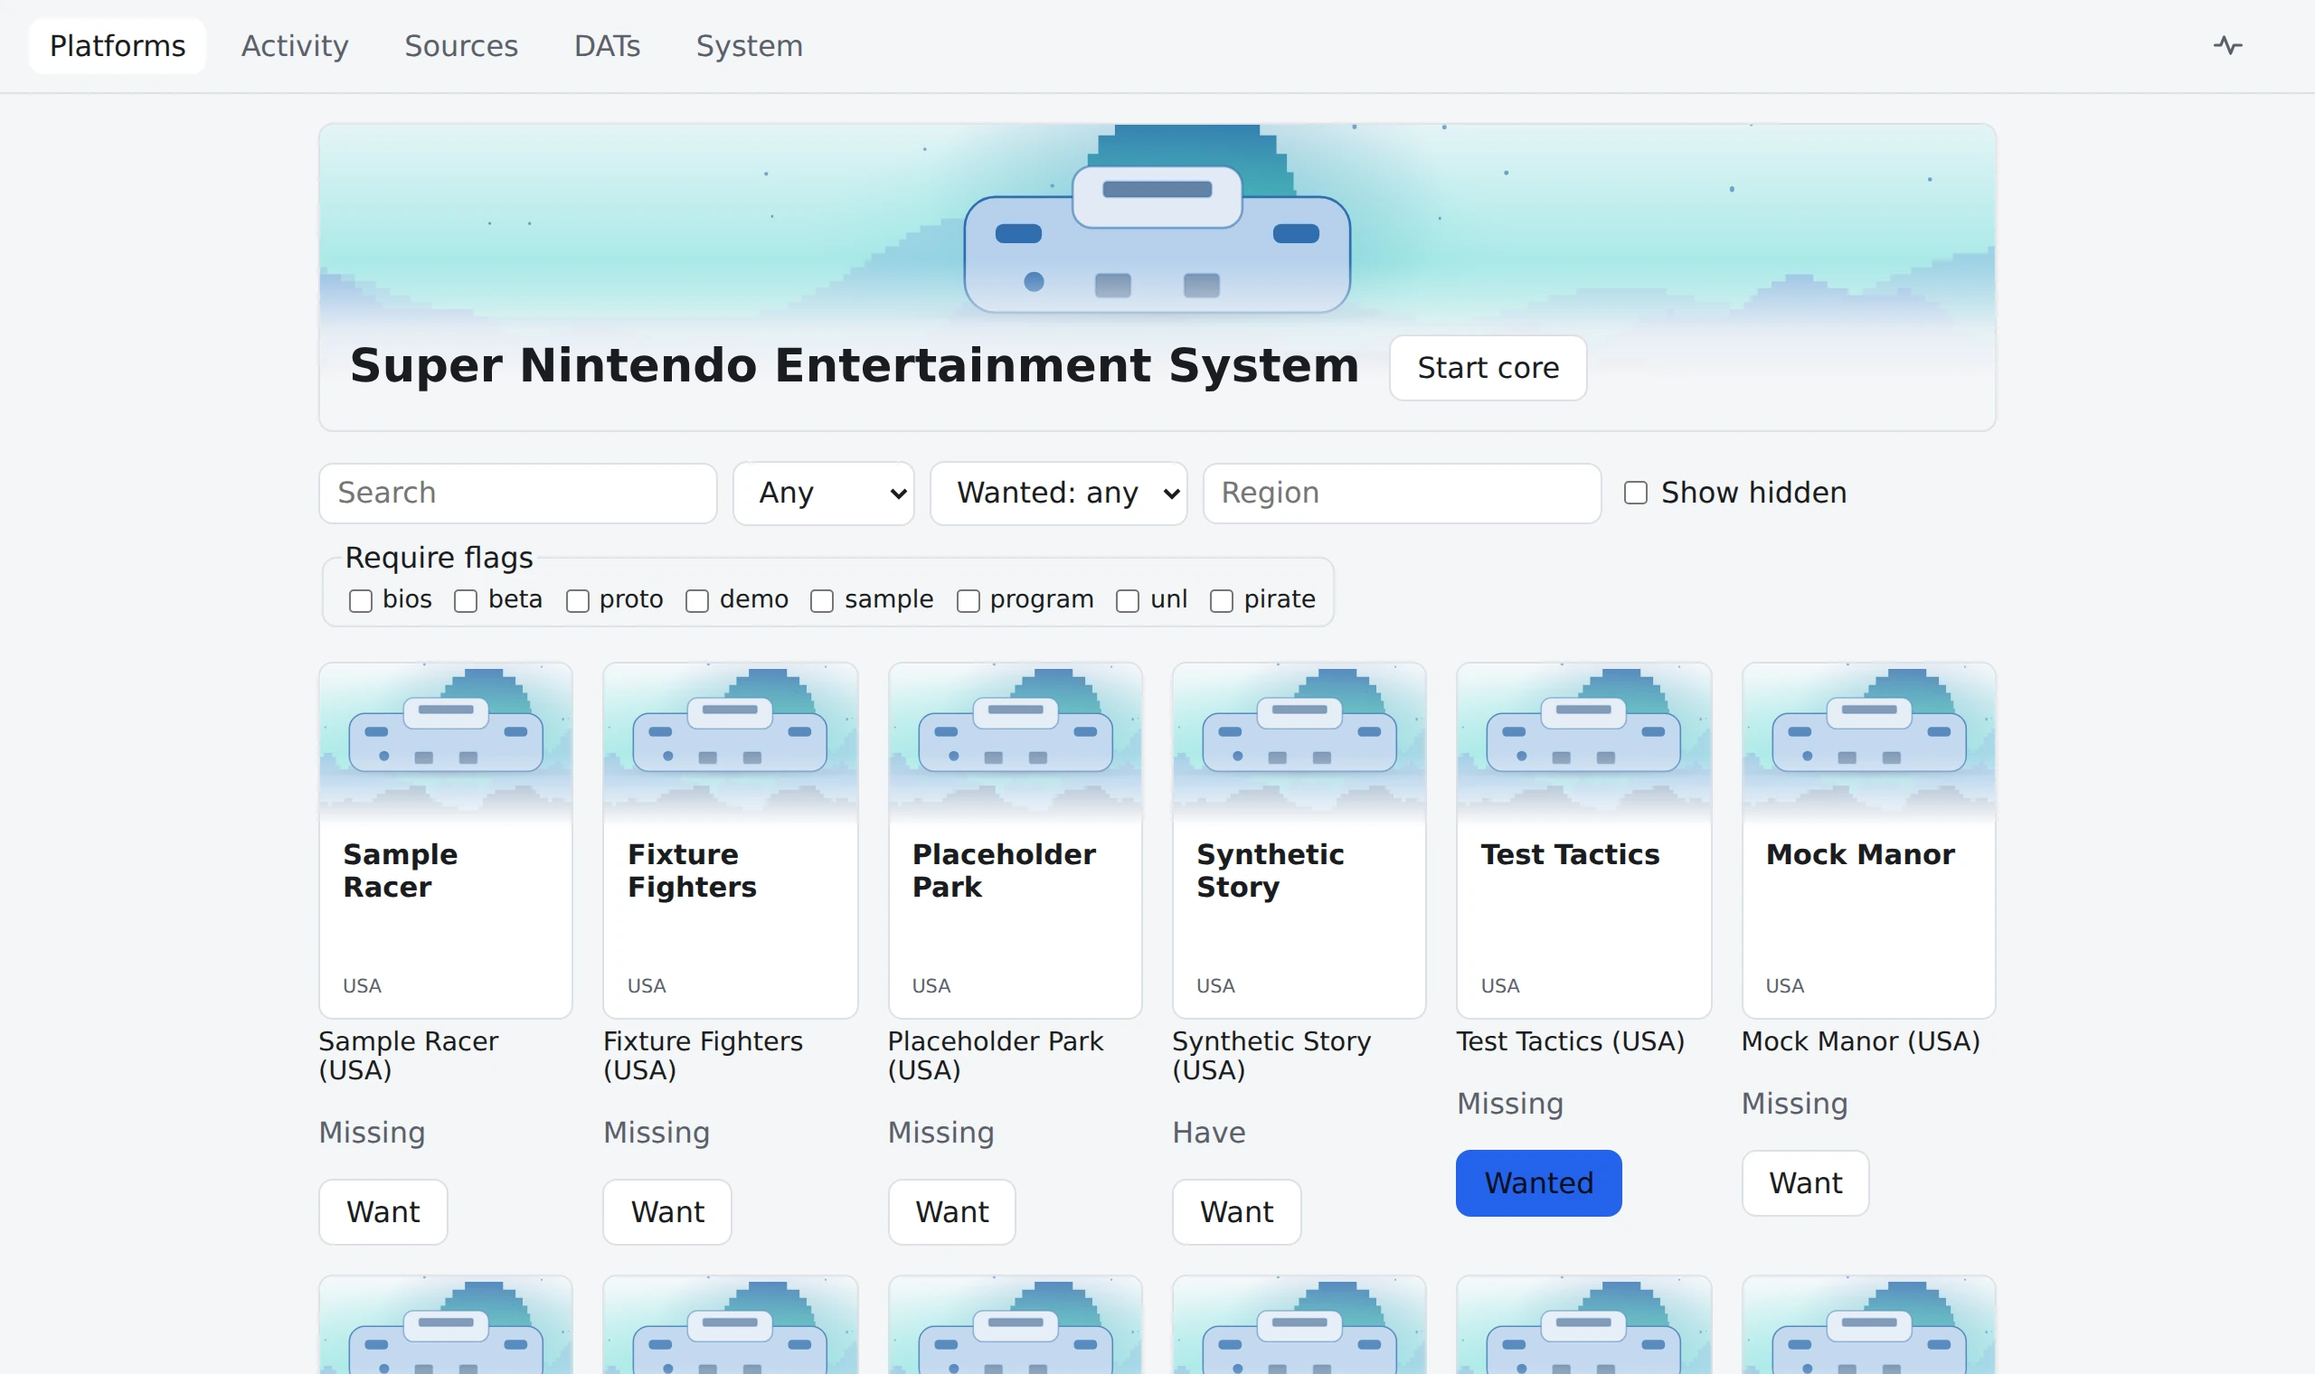
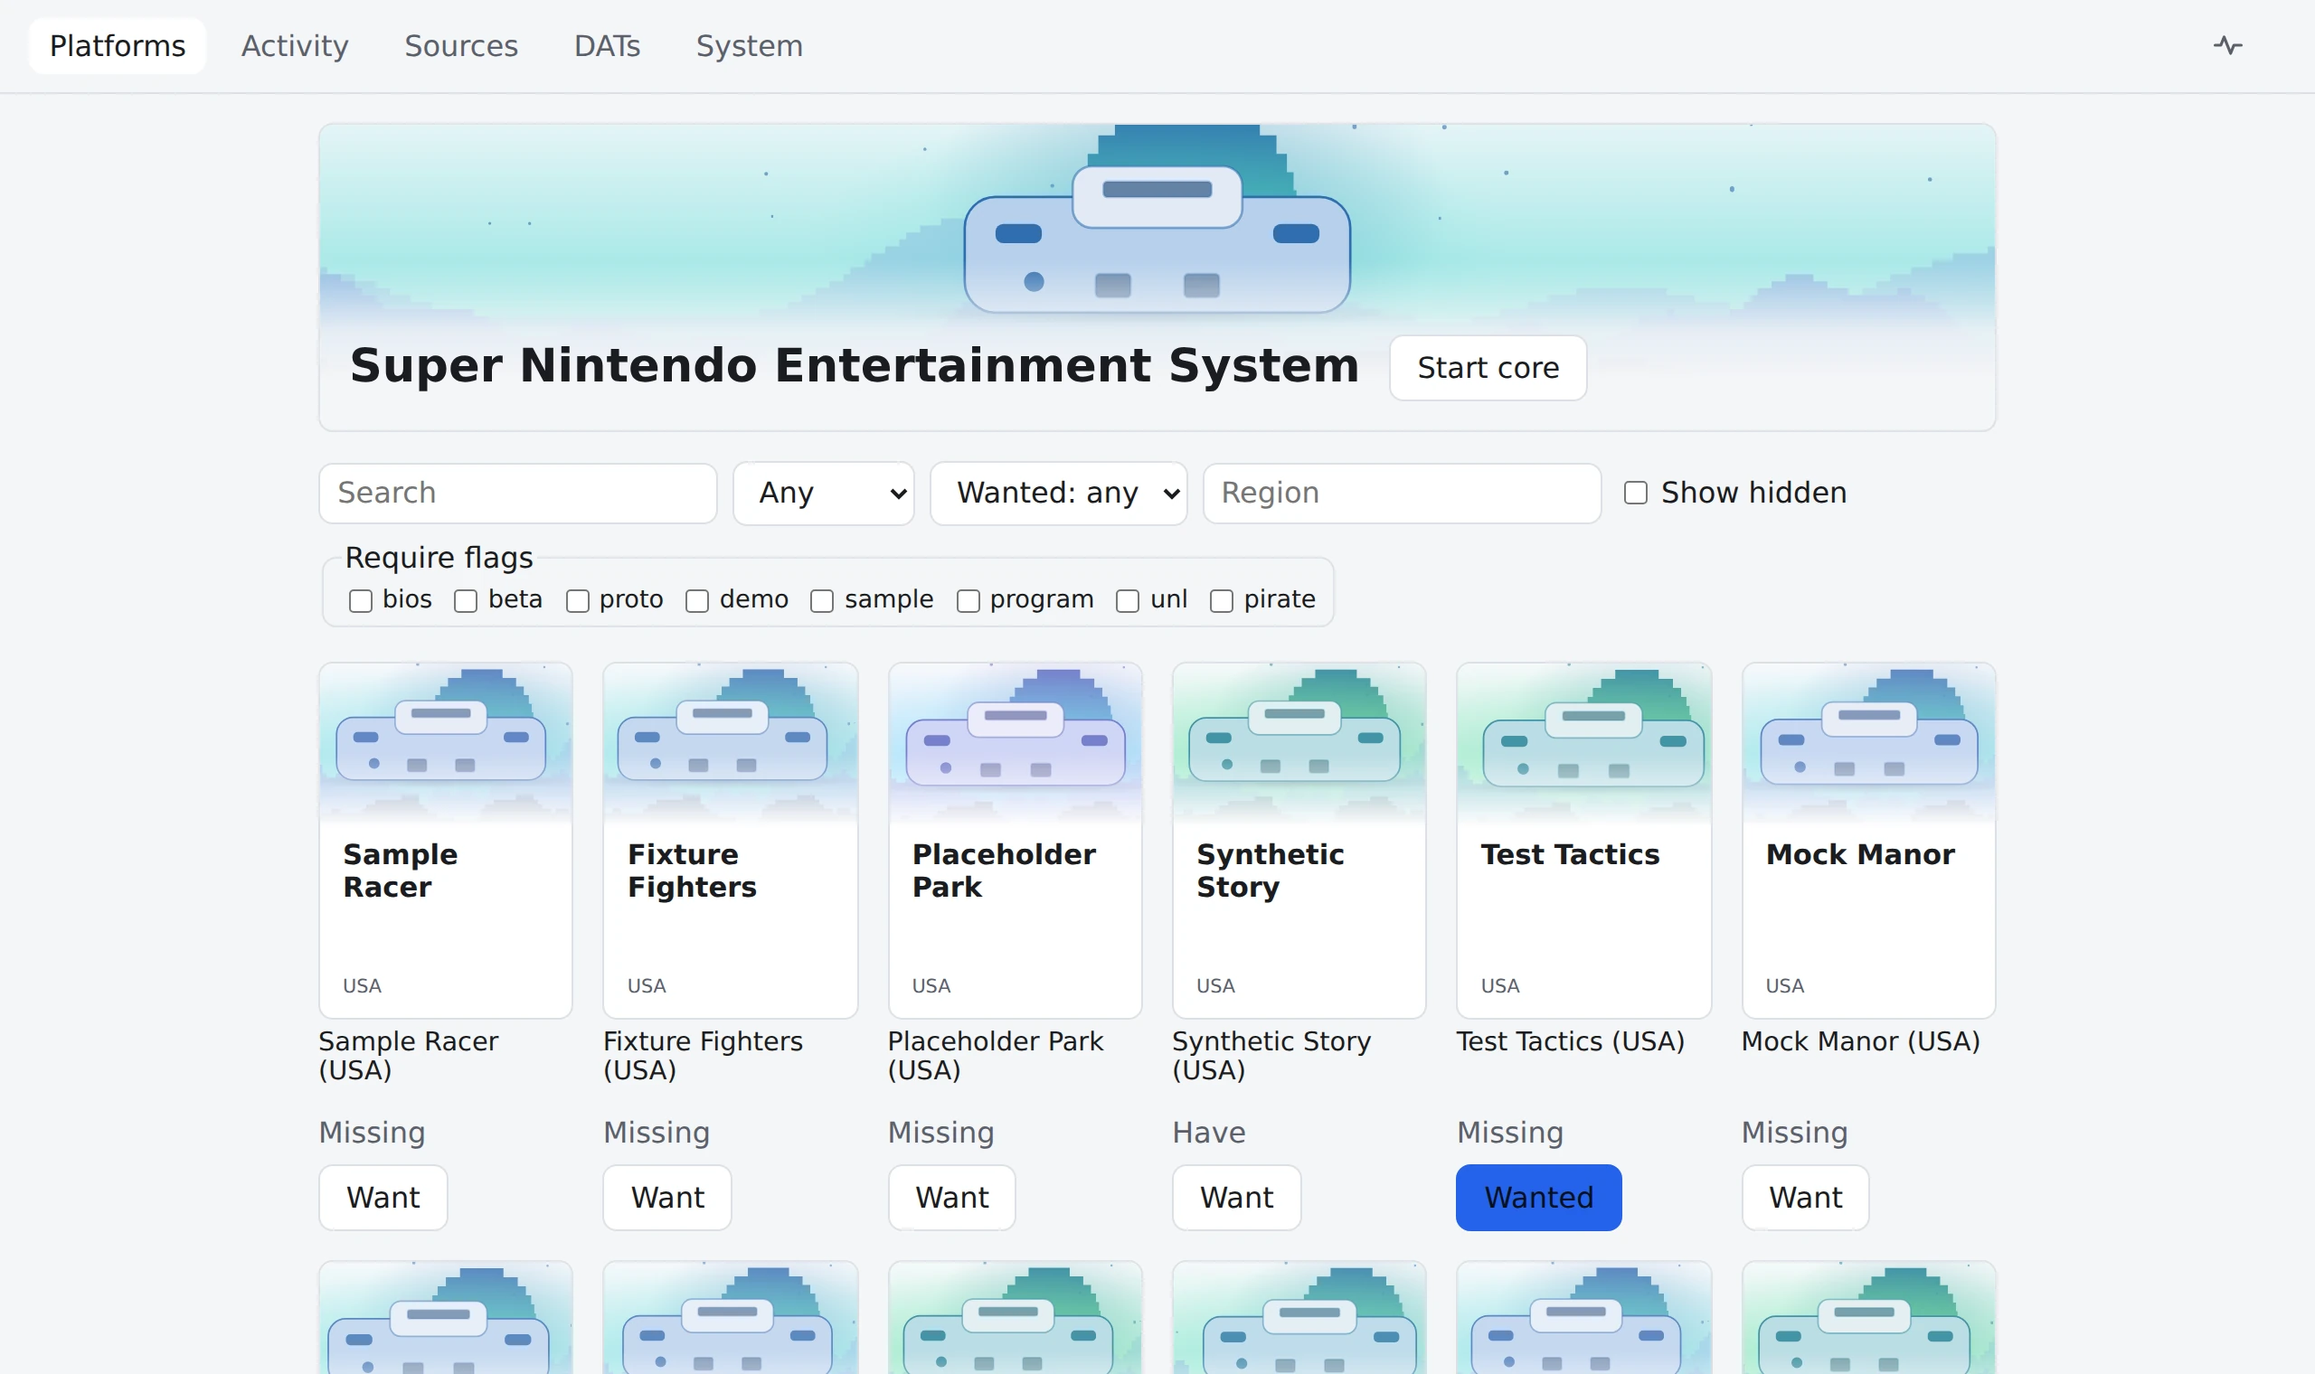
Align Browse cards and vary generated posters
Each Browse card is now a flex column with its status line and Want
button at the foot, so they line up across a row whatever the name's
length; an e2e test checks the first row. Every generated poster on a
platform looked the same: posterVariation hashes the title's name into
a hue rotation of up to 30 degrees, a small horizontal shift and a zoom
that always covers the shift, applied in CSS to the art band, so
neighbours differ and a title always looks the same. Unit tests pin
its determinism and bounds. The Browse and Title images are retaken.

diff --git a/web/e2e/poster.spec.ts b/web/e2e/poster.spec.ts
@@ -1,0 +1,37 @@
+import { expect, test } from '@playwright/test';
+import { posterVariation } from '../src/lib/poster';
+
+const names = [
+  'Example Quest', 'Sample Racer', 'Fixture Fighters', 'Placeholder Park', 'Synthetic Story',
+  'Test Tactics', 'Mock Manor', 'Demo Dungeon', 'Trial Trail', 'Stub Squad'
+];
+
+test('a name always gets the same poster variation', () => {
+  for (const name of names) {
+    expect(posterVariation(name)).toEqual(posterVariation(name));
+  }
+  expect(posterVariation('Example Quest (USA)')).not.toEqual(posterVariation('Example Quest (Europe)'));
+});
+
+test('every variation stays within its bounds', () => {
+  for (let i = 0; i < 2000; i += 1) {
+    const { hue, shift, scale } = posterVariation(`Title ${i}`);
+    expect(Number.isInteger(hue) && hue >= -30 && hue <= 30).toBe(true);
+    expect(Number.isInteger(shift) && shift >= -4 && shift <= 4).toBe(true);
+    expect(scale).toBeGreaterThanOrEqual(1.08);
+    expect(scale).toBeLessThanOrEqual(1.14 + 1e-9);
+    expect(scale, 'the zoom covers the shift on both sides').toBeGreaterThanOrEqual(1 + (2 * Math.abs(shift)) / 100);
+  }
+});
+
+test('titles on one platform get visibly different hues', () => {
+  const hues = new Set(names.map((name) => posterVariation(`${name} (USA)`).hue));
+  expect(hues.size).toBeGreaterThanOrEqual(7);
+  const spread = Math.max(...hues) - Math.min(...hues);
+  expect(spread).toBeGreaterThanOrEqual(30);
+});
+
+test('the empty name has a variation too', () => {
+  const { hue, shift, scale } = posterVariation('');
+  expect([hue, shift, scale].every(Number.isFinite)).toBe(true);
+});

diff --git a/web/src/lib/PosterPlaceholder.svelte b/web/src/lib/PosterPlaceholder.svelte
@@ -1,5 +1,6 @@
 <script lang="ts">
   import PlatformArt from './PlatformArt.svelte';
+  import { posterVariation } from './poster';
   import type { PlatformKind } from './types';
 
   interface Props {
@@ -12,6 +13,7 @@
   }
 
   const { platformId, kind, title, name = null }: Props = $props();
+  const look = $derived(posterVariation(name ?? title));
   const tags = $derived(
     [...(name ?? '').matchAll(/\(([^()]+)\)/g)]
       .map((m) => m[1] ?? '')
@@ -22,7 +24,15 @@
 
 <!-- The name is already on the page as text, so the poster is decoration. -->
 <div class="poster-placeholder" aria-hidden="true" data-testid="poster-placeholder">
-  <div class="band"><PlatformArt id={platformId} {kind} /></div>
+  <div class="band">
+    <div
+      class="shift"
+      style:filter="hue-rotate({look.hue}deg)"
+      style:transform="translateX({look.shift}%) scale({look.scale})"
+    >
+      <PlatformArt id={platformId} {kind} />
+    </div>
+  </div>
   <p class="title">{title}</p>
   {#if tags}
     <p class="tags">{tags}</p>
@@ -46,7 +56,14 @@
   .band {
     position: relative;
     flex: 0 0 46%;
+    overflow: hidden;
     opacity: 0.8;
+  }
+
+  .shift {
+    position: absolute;
+    inset: 0;
+    transform-origin: 50% 0;
   }
 
   .band::after {

diff --git a/web/e2e/screens.spec.ts b/web/e2e/screens.spec.ts
@@ -79,6 +79,22 @@ test('Play and Want are hidden for a BIOS entry even when its file is present', 
   await expect(page.getByRole('row', { name: /\(Europe\)/ }).getByRole('button', { name: 'Want' })).toHaveCount(1);
 });
 
+test('the status and Want button line up across a row of posters', async ({ page }) => {
+  await page.setViewportSize({ width: 1280, height: 900 });
+  await page.goto('/#/p/nes');
+  const cards = page.locator('.grid a.poster');
+  await expect(cards.nth(5)).toBeVisible();
+  const tops = await cards.evaluateAll((els) =>
+    els.slice(0, 6).map((el) => {
+      const card = el.getBoundingClientRect().top;
+      const button = el.querySelector('button')?.getBoundingClientRect().top ?? 0;
+      return { card: Math.round(card), button: Math.round(button) };
+    })
+  );
+  expect(new Set(tops.map((t) => t.card)).size, 'the first six cards share a row').toBe(1);
+  expect(new Set(tops.map((t) => t.button)).size).toBe(1);
+});
+
 test('a title without a cover gets a generated poster with its name, hidden from screen readers', async ({ page }) => {
   await page.route(/^https?:\/\/(?!localhost)/, (route) => route.abort());
   await page.goto('/#/p/nes');

diff --git a/web/src/lib/poster.ts b/web/src/lib/poster.ts
@@ -1,0 +1,31 @@
+// Per-title variation of the generated poster; see docs/UI.md "Browse".
+
+/** How one generated poster's art band differs from its platform's art. */
+export interface PosterVariation {
+  /** Hue rotation in degrees, from -30 to 30. */
+  hue: number;
+  /** Horizontal shift of the art in percent of the band, from -4 to 4. */
+  shift: number;
+  /** Zoom of the art, from 1.08 to 1.14: enough that the shift never bares an edge. */
+  scale: number;
+}
+
+/** FNV-1a over the UTF-16 code units of `text`. */
+function fnv1a(text: string): number {
+  let h = 0x811c9dc5;
+  for (let i = 0; i < text.length; i += 1) {
+    h ^= text.charCodeAt(i);
+    h = Math.imul(h, 0x01000193);
+  }
+  return h >>> 0;
+}
+
+/** The variation for a title name; the same name always gets the same one. */
+export function posterVariation(name: string): PosterVariation {
+  const h = fnv1a(name);
+  return {
+    hue: (h % 61) - 30,
+    shift: ((h >>> 8) % 9) - 4,
+    scale: 1.08 + ((h >>> 16) % 7) / 100
+  };
+}

diff --git a/web/src/routes/Browse.svelte b/web/src/routes/Browse.svelte
@@ -256,7 +256,7 @@
           />
         {/if}
         <p class="name">{group.pick_name ?? group.name}</p>
-        <p class="muted">{group.have_verified > 0 ? 'Have' : 'Missing'}</p>
+        <p class="muted status">{group.have_verified > 0 ? 'Have' : 'Missing'}</p>
         <button
           class:primary={group.wanted > 0}
           disabled={group.pick_id === null}
@@ -421,9 +421,19 @@
   }
 
   .poster {
-    display: block;
+    display: flex;
+    flex-direction: column;
     text-decoration: none;
     color: var(--fg);
+  }
+
+  .poster .status {
+    margin-top: auto;
+    padding-top: 1em;
+  }
+
+  .poster button {
+    align-self: flex-start;
   }
 
   .poster img {

diff --git a/docs/WORKPLAN.md b/docs/WORKPLAN.md
@@ -91,7 +91,7 @@ code. Guidance:
 | WP-41 | Identify CHD images by their tracks | Opus | 11, 26, 35 | A `.chd` on a disc platform is never hashed whole unless a loaded DAT lists a `.chd` rom of its size: the scan reads only its 124-byte header, proven by a reader that fails past byte 124 and by a header-only file that stays `unidentified` with reason `off`, and shows it on the Platforms card as not identified with a reason (`GET /platforms/{id}/unidentified`), not as unmatched; with `[scan] chd_tracks` on (System, labelled slow, default off, runtime-editable, a stored runtime without it never overriding the file), one heavy `chd_tracks` job decodes each image once with an in-tree pure-Rust v5 decoder over flate2, lzma-rs, claxon and ruzstd, rebuilds each track's Redump-style `.bin` (2352 of 2448 bytes, pad frames skipped, audio little-endian, stored pregaps included) into the existing hasher with nothing written to disk, verifies per-hunk CRC16 and the raw and combined header SHA1, caches per-track hashes on header SHA1 plus size, and writes `g.chd#NN` members plus `g.chd#cue`, verified only when every track of one DAT entry matches a distinct rom; cooked tracks, unstored pregaps, parents, GD-ROM, unsupported codecs, old track lists and damaged images are not identified with their reason and not decoded again until the file is rewritten; the job pauses between slices of about 640 KiB while a core runs and yields the heavy lane only to other job kinds; the launch hands over the `.chd`; synthetic discs encoded by chdman (default codecs, cdzs, cdfl, cdzl, small and 3-byte-length hunks; split and single-file cues; Mode 1, Mode 2 and audio tracks with INDEX 00 pregaps) decode to their source bins' hashes, required in CI; the in-repo synthetic writer covers every codec, real MAME-canonical Huffman maps, and agrees with chd-rs; KATs from docs/CHD.md pin the map, canonical codes and CHT2 layout; a proptest over track layouts, hunk sizes and codecs holds; mutated and truncated images fail without panicking; `decode_budget` stays under 24 MiB at the header limits and `tests/memory.rs` stays under budget; PLATFORMS.md, VERIFICATION.md, UI.md, DATA-MODEL.md, API.md, ARCHITECTURE.md, TESTING.md and the new CHD.md describe it. |
 | WP-42 | Fewer writes on the sync mount | Opus | 32, 35 | SQLite's temporary files go to `/tmp/mistarr`, falling back to `<data>/tmp`, and the DAT stage is a TEMP table, so neither reaches the `sync`-mounted card; the transaction that applies a DAT runs with the writer's cache at 8 MiB and the soft heap limit raised to match, both restored after it, on error too, within the memory budget `tests/memory.rs` checks; `roms_md5` holds only roms without a sha1, and `roms_match_base` and `roms_size` only keyed roms, through a numbered migration, with a plan test that every rom lookup seeks its index; `files::in_directory` is one range seek, with a plan test and a test that its rows are unchanged; a test holds a 450-game load's database and WAL writes under a bound a spilling writer or a full rom index exceeds; ARCHITECTURE.md records the counts. |
 | WP-43 | DAT import in RAM | Opus | 42 | A DAT import, bind or re-import holds the writer, checkpoints the WAL, refuses a `[memory] import_dir` that is not a private directory on tmpfs apart from the card, checks `MemAvailable` against the copy's need (the database's size and half again, six times the DATs' uncompressed size for the rows and the stage's temporary files, 32 MiB), again before each stage is applied, above `[memory] import_floor_mib` and the room in `import_dir` and on the card, copies the database into RAM with SQLite's backup, runs every member and each loaded platform's recompute there on a rollback journal, reading `MemAvailable` again as it goes, writes the copy back as `mistarr.db.new` in 1 MiB writes, syncs it, waits while another process holds the database, and swaps it in under a `.swap` marker by renaming the old file to `.old`, the copy into place and removing `.old`, reopening both connections; memory or room short, or running out (a typed `NoRoom`), imports on the card with the reason in the progress, while a failed reopen is its own `Reopen` error; shutdown, a pause and failures leave the card file byte-identical; while a core runs the copy and the write-back rest as long as each step took; startup finishes a swap cut short, taking a lone `.new` beside the marker that passes `quick_check` and never creating a database beside the swap's files, removes a stale `.new` beside the database and working directories and runs pending migrations the same way; `install.sh` guards `.new` and `.old`, removes them only beside the database and stops, keeping the saved set, when a `.new` stands without it; `doctor --rebuild-groups` takes the data directory's lock; the web UI names the new phases and shows the reason (`web/src/lib/status.ts`); tests count the write-back's syscalls, compare every row with an import on the card, build every crash state and start through `app::open_db`, fill the copy partway through a load, answer an upload while the writer is held, hold the copy's peak in RAM to its need, and hold a 450-game load to one card write per MiB plus 16; ARCHITECTURE.md records the counts. |
-| WP-44 | README showcase | Opus | 34, 40 | The README opens with one line saying mistarr is a verifier and organiser for MiSTer game libraries with a torrent-client front end, an original banner drawn from the platform art generator in dark and light, and four points (catalogue, scan and verify, place, transfers) each shown by screenshots of the mock UI with synthetic data and cover art blocked, light and dark through `<picture>` where it helps, plus a phone-width view; install, upgrade and rollback stay accurate; `web/e2e/readme-shots.spec.ts` captures every image at 2x only when `README_SHOTS_DIR` is set, with a `?mock=showcase` scenario, and `web/scripts/readme-images.sh` writes them to `docs/images/` as WebP under 2.5 MB in all, with a 1280×640 `social-preview.png`; TESTING.md says how to regenerate them. A title without a cover, in Browse and on the Title page, gets a generated poster of its platform's art and its name in the theme's colours, `aria-hidden`, with no request; the Title page offers no Want on a BIOS variant; e2e covers both. |
+| WP-44 | README showcase | Opus | 34, 40 | The README opens with one line saying mistarr is a verifier and organiser for MiSTer game libraries with a torrent-client front end, an original banner drawn from the platform art generator in dark and light, and four points (catalogue, scan and verify, place, transfers) each shown by screenshots of the mock UI with synthetic data and cover art blocked, light and dark through `<picture>` where it helps, plus a phone-width view; install, upgrade and rollback stay accurate; `web/e2e/readme-shots.spec.ts` captures every image at 2x only when `README_SHOTS_DIR` is set, with a `?mock=showcase` scenario, and `web/scripts/readme-images.sh` writes them to `docs/images/` as WebP under 2.5 MB in all, with a 1280×640 `social-preview.png`; TESTING.md says how to regenerate them. A title without a cover, in Browse and on the Title page, gets a generated poster of its platform's art and its name in the theme's colours, `aria-hidden`, with no request, its band's hue, shift and zoom varied by a hash of the name, and each card's status and Want button line up across a row; the Title page offers no Want on a BIOS variant; e2e covers both. |
 
 ## Suggested fan-out
 

diff --git a/docs/UI.md b/docs/UI.md
@@ -84,8 +84,12 @@ whose cover fails to load, gets a generated poster
 (`web/src/lib/PosterPlaceholder.svelte`): the platform's art as a faded band
 over the theme's raised background, the title's name set in bold beneath it
 and the name's parenthesised tags, such as the region, on a dimmed line at the
-foot. It uses the theme tokens, makes no request, and is `aria-hidden`, since
-the name is already on the card as text.
+foot. A hash of the name picks the band's hue rotation (up to 30° either way),
+horizontal shift and a zoom that covers it (`web/src/lib/poster.ts`), so neighbours differ
+and a title always looks the same. It uses the theme tokens, makes no
+request, and is `aria-hidden`, since the name is already on the card as text.
+Each card is a column whose status line and Want button sit at its foot, so
+they line up across a row whatever the name's length.
 Filters: search, have / missing / wanted, region, a "Show hidden" checkbox,
 and a flags multi-select that requires every checked flag. Each card shows
 the 1G1R pick name, a have indicator, and a want toggle. Infinite scroll in
